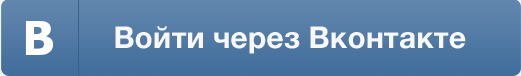
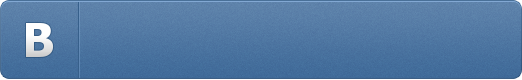
minor tweaks with login

diff --git a/ios/social/controllers/LoginViewController.m b/ios/social/controllers/LoginViewController.m
@@ -12,7 +12,6 @@
 @end
 
 @implementation LoginViewController
-@synthesize loginLabel = _loginLabel;
 @synthesize signUpButton = _signUpButton;
 @synthesize emailLoginButton = _emailLoginButton;
 @synthesize vkLoginButton = _vkLoginButton;
@@ -35,8 +34,10 @@
 {
     [super viewDidLoad];
     [self setUpObservers];
-    self.loginLabel.text = NSLocalizedString(@"LOGIN", @"Login label");
-    [self.signUpButton setTitle:NSLocalizedString(@"REGISTER", @"Signup/register button")forState:UIControlStateNormal];    
+    [self.signUpButton setTitle:NSLocalizedString(@"REGISTER", @"Signup/register button")forState:UIControlStateNormal];
+    [self.vkLoginButton setTitle:NSLocalizedString(@"LOGIN_WITH_VK", @"Login with vk button") forState:UIControlStateNormal];
+    [self.emailLoginButton setTitle:NSLocalizedString(@"LOGIN", @"Login button") forState:UIControlStateNormal];
+    
     NSLog(@"inside loginview");
 }
 
@@ -86,7 +87,6 @@
 
 - (void)viewDidUnload
 {
-    [self setLoginLabel:nil];
     [self setSignUpButton:nil];
     [self setEmailLoginButton:nil];
     [self setVkLoginButton:nil];

diff --git a/ios/social/controllers/LoginViewController.h b/ios/social/controllers/LoginViewController.h
@@ -5,7 +5,6 @@
     Vkontakte *_vkontakte;
 }
 
-@property (weak, nonatomic) IBOutlet UILabel *loginLabel;
 @property (weak, nonatomic) IBOutlet UIButton *signUpButton;
 @property (weak, nonatomic) IBOutlet UIButton *emailLoginButton;
 @property (weak, nonatomic) IBOutlet UIButton *vkLoginButton;
